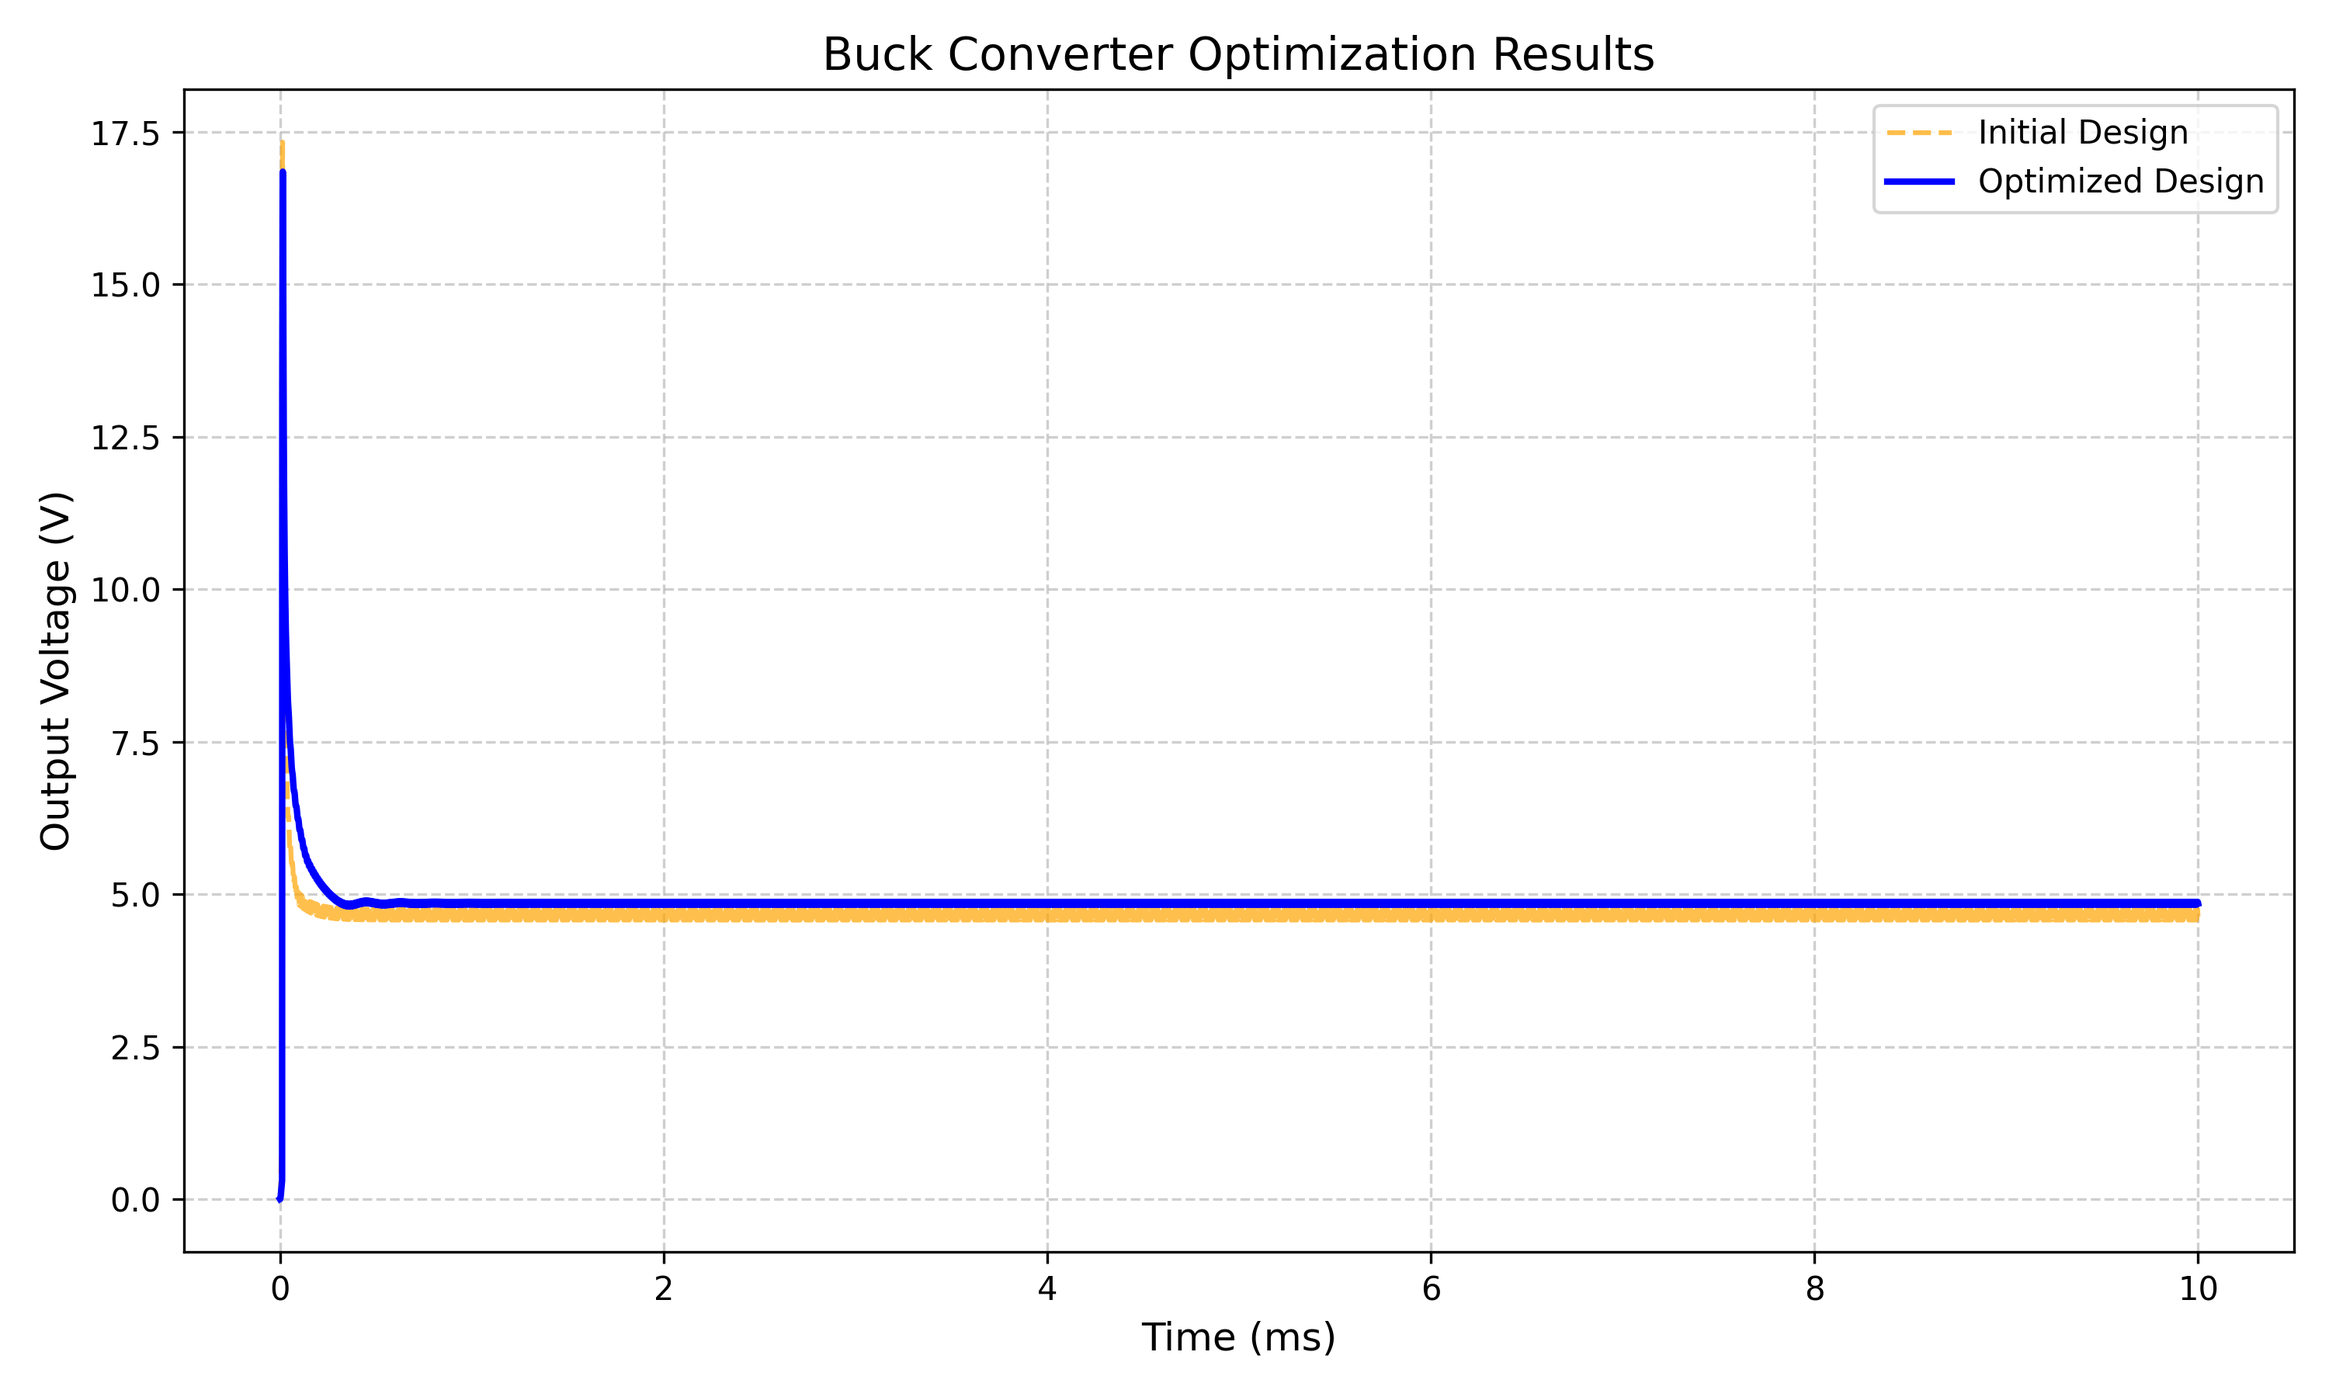
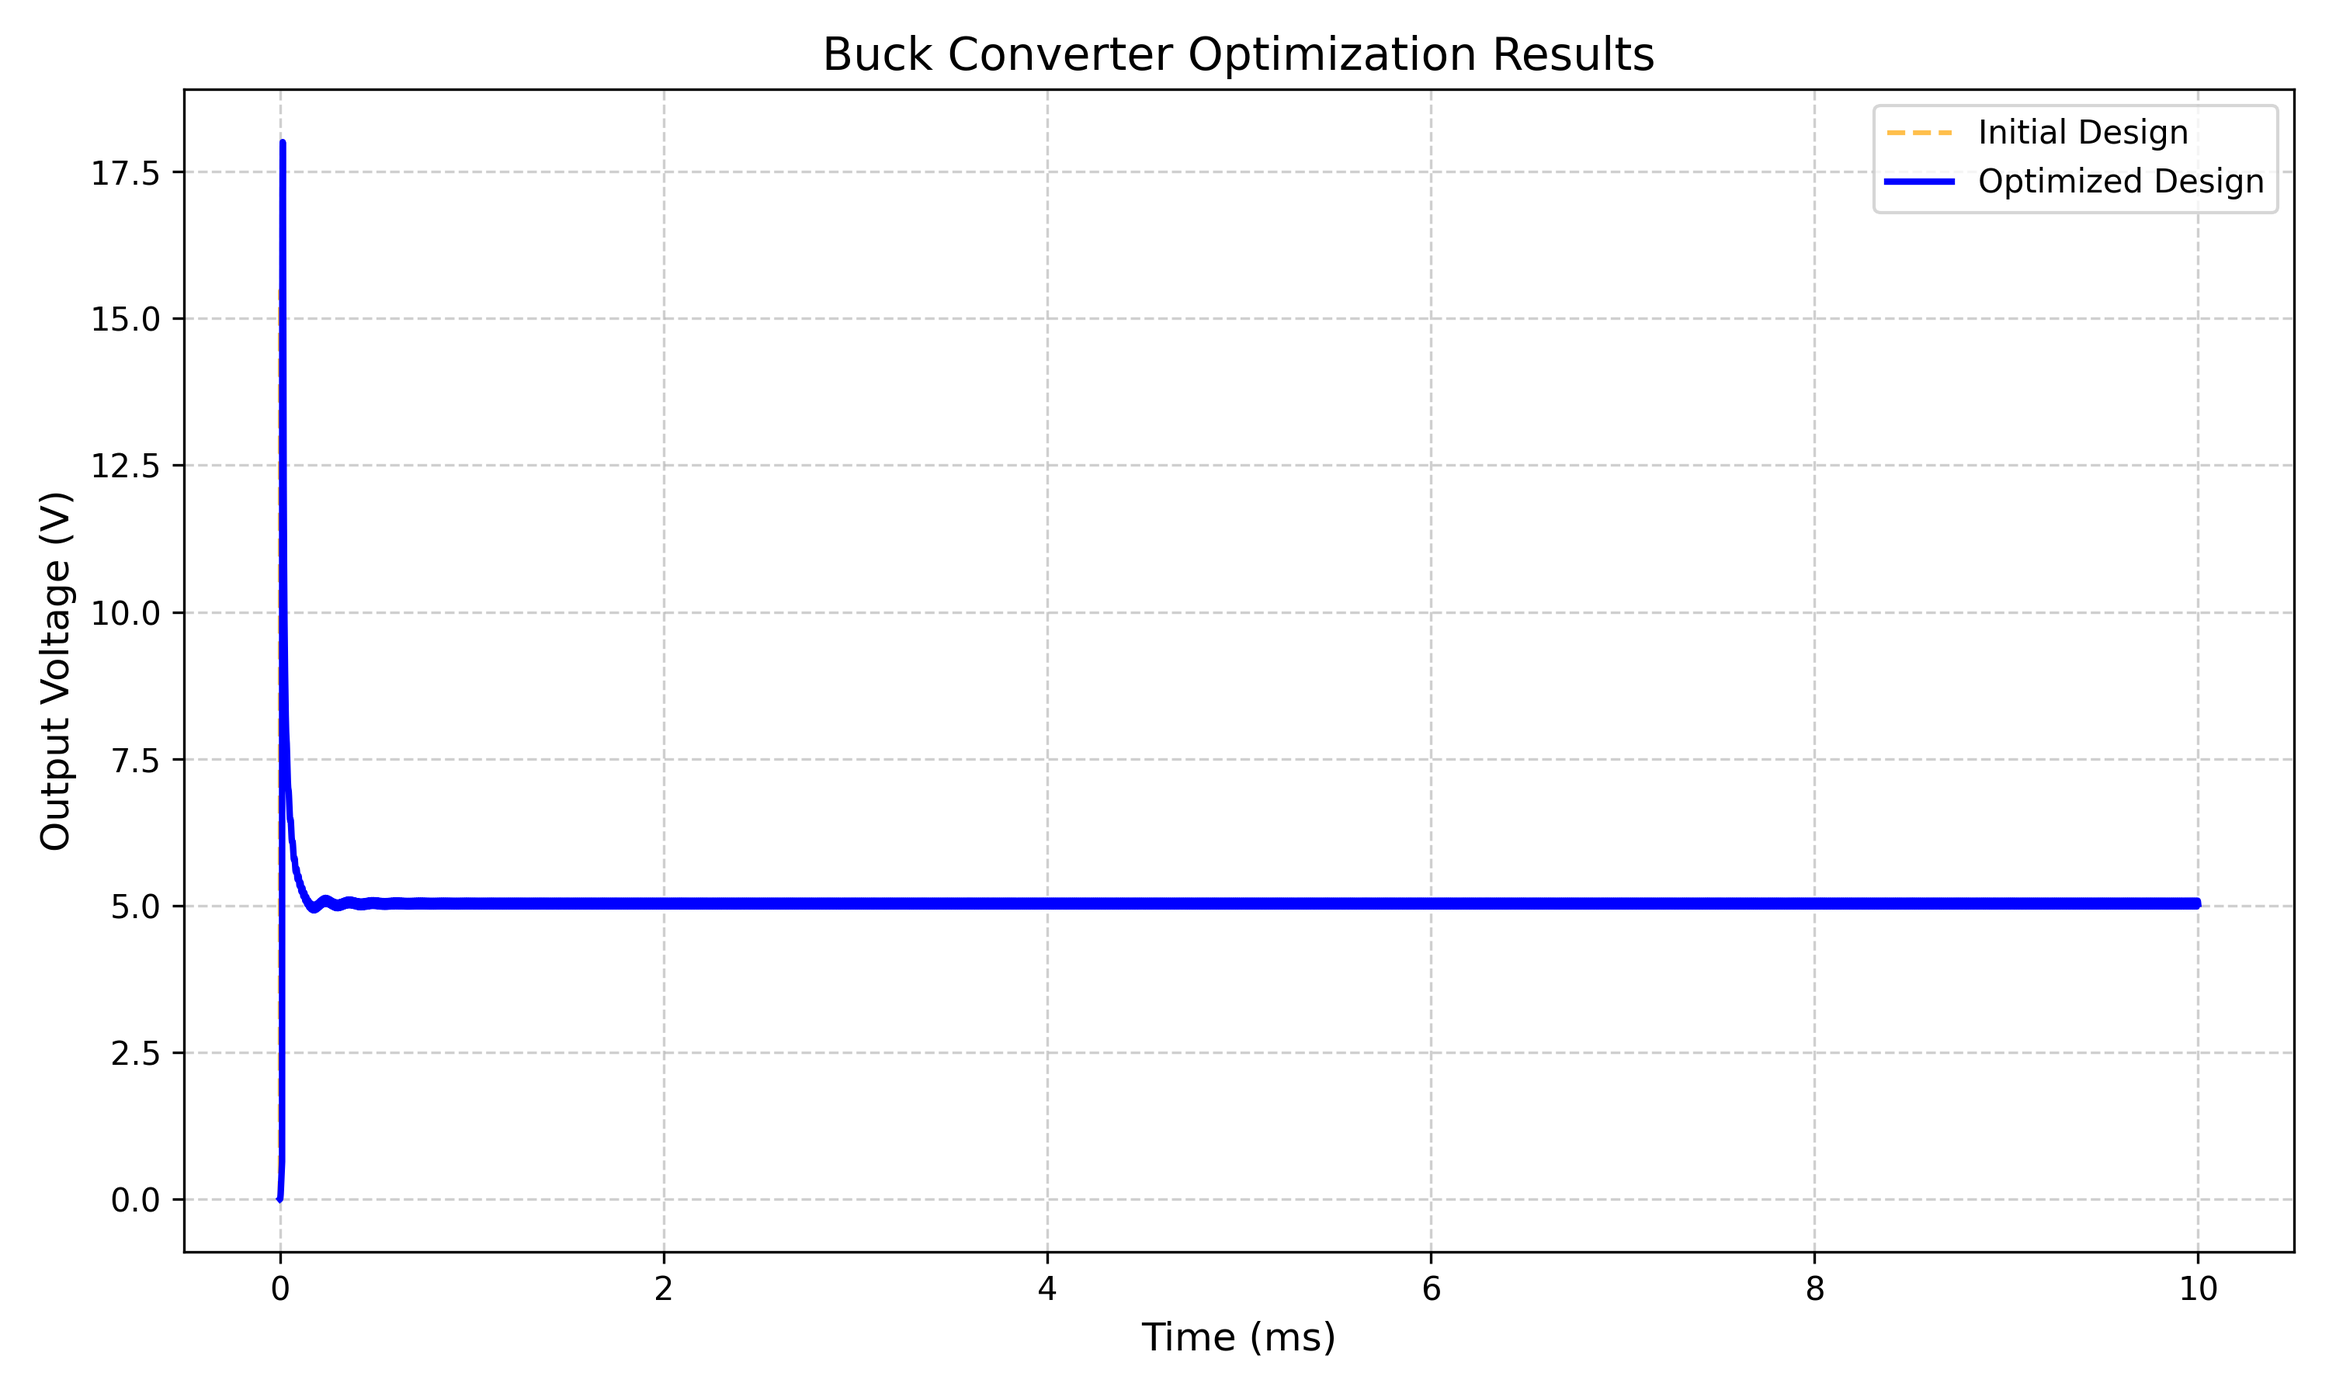
harder initial value, ripple approximated

diff --git a/PowerAgent/experiment_results/agent_memory.md b/PowerAgent/experiment_results/agent_memory.md
@@ -15,11 +15,11 @@ Current Circuit Configuration (Buck_converter_real_sim.net):
 - L1: Flux={L_nom}*{I_sat}*tanh(x/{I_sat})
 - M1: IRF1404
 - Rload: 6
-- Vsw: PULSE(0 10 0 1n 1n 3.38u 10u)
+- Vsw: PULSE(0 10 0 1n 1n 7u 10u)
 - Cout: Cout out 0 Q={C_min}*x + ({C_nom}-{C_min})*{V_coeff}*tanh(x/{V_coeff})
 
 Parameters:
-.param C_nom= 33u C_min= 1u V_coeff= 5 L_nom= 14u I_sat= 3
+.param C_nom= 3u C_min= 1u V_coeff= 5 L_nom= 4u I_sat= 3
 
 
 **Agent Thought (Iter 1):**
@@ -34,38 +34,38 @@ Parameters:
 
 **Tool Call (calculate_metrics):**
 Simulation Metrics:
-{'v_mean': 4.645565509796143, 'ripple_pp': 0.1774749755859375, 'ripple_percent': 3.820309415459633, 'max_voltage': 4.752311706542969, 'min_voltage': 4.574836730957031}
+{'v_mean': 9.334090232849121, 'ripple_pp': 4.602149963378906, 'ripple_percent': 49.30475056171417, 'max_voltage': 11.924044609069824, 'min_voltage': 7.321894645690918}
 
 **Agent Thought (Iter 3):**
-The initial simulation results indicate that the current configuration does not meet the desired specifications:
+The current simulation results indicate that the buck converter is not meeting the desired specifications:
 
-- Mean Output Voltage (V_mean): 4.65V (Target: 5V ± 0.1V)
-- Output Ripple: 0.177V (Target: < 0.05V)
-- Ripple Percentage: 3.82% (Target: < 1%)
+- Mean Output Voltage (V_mean): 9.33V (Target: 5V ± 0.1V)
+- Output Ripple: 4.60V (Target: < 0.05V)
+- Ripple Percentage: 49.30% (Target: < 1%)
 
-To address these issues, we need to adjust the duty cycle and possibly the values of L1 and Cout. Let's start by adjusting the duty cycle to increase the mean output voltage closer to 5V.
+To address these issues, we need to adjust the duty cycle and possibly the values of L1 and Cout.
 
-### Current Duty Cycle Calculation:
-- Current Ton = 3.38u
-- Tperiod = 10u
-- Current Duty Cycle (D) = 3.38u / 10u = 0.338
+### Plan:
+1. **Adjust Duty Cycle (D):**
+   - Current V_mean is 9.33V, but we need 5V.
+   - Current Duty Cycle (D) is 0.7 (Ton = 7u, Tperiod = 10u).
+   - New Duty Cycle (D_new) = D_old * (V_target / V_measured) = 0.7 * (5 / 9.33) ≈ 0.375.
+   - Update Ton to achieve D_new = 0.375 with Tperiod = 10u. Thus, Ton = 3.75u.
 
-### Target Duty Cycle Calculation:
-- Desired Vout = 5V
-- Vin = 12V
-- Target Duty Cycle (D_target) = Vout / Vin = 5 / 12 ≈ 0.417
+2. **Adjust Cout and L1:**
+   - Increase Cout to reduce voltage ripple.
+   - Increase L1 to reduce inductor current ripple.
 
-### Adjusting Duty Cycle:
-- New Ton = D_target * Tperiod = 0.417 * 10u = 4.17u
-
-Let's update the duty cycle and re-simulate the circuit.
+Let's proceed with these adjustments.
 
 **Tool Call (update_circuit):**
 Updating components:
-- Vsw -> PULSE(0 10 0 1n 1n 4.17u 10u)
+- Vsw -> PULSE(0 10 0 1n 1n 3.75u 10u)
+- Parameter C_nom -> 10u (for Cout)
+- Parameter L_nom -> 10u (for L1)
 
 
-**State Update:** Circuit values updated: {'Vsw': 'PULSE(0 10 0 1n 1n 4.17u 10u)'}
+**State Update:** Circuit values updated: {'Vsw': 'PULSE(0 10 0 1n 1n 3.75u 10u)', 'Cout': '10u', 'L1': '10u'}
 
 **Agent Thought (Iter 4):**
 
@@ -79,36 +79,35 @@ Updating components:
 
 **Tool Call (calculate_metrics):**
 Simulation Metrics:
-{'v_mean': 5.521050930023193, 'ripple_pp': 0.2537841796875, 'ripple_percent': 4.596664384007454, 'max_voltage': 5.660794258117676, 'min_voltage': 5.407010078430176}
+{'v_mean': 6.077517509460449, 'ripple_pp': 1.2131967544555664, 'ripple_percent': 19.962044060230255, 'max_voltage': 6.790332794189453, 'min_voltage': 5.577136039733887}
 
 **Agent Thought (Iter 6):**
-After adjusting the duty cycle, the simulation results are as follows:
+The adjustments have improved the circuit performance, but it still does not meet the specifications:
 
-- Mean Output Voltage (V_mean): 5.52V (Target: 5V ± 0.1V)
-- Output Ripple: 0.254V (Target: < 0.05V)
-- Ripple Percentage: 4.60% (Target: < 1%)
+- Mean Output Voltage (V_mean): 6.08V (Target: 5V ± 0.1V)
+- Output Ripple: 1.21V (Target: < 0.05V)
+- Ripple Percentage: 19.96% (Target: < 1%)
 
-The mean output voltage is now too high, and the ripple is still above the acceptable range. We need to fine-tune the duty cycle and consider adjusting the values of L1 and Cout to reduce the ripple.
+### Next Steps:
+1. **Further Adjust Duty Cycle (D):**
+   - Current V_mean is 6.08V, but we need 5V.
+   - New Duty Cycle (D_new) = D_old * (V_target / V_measured) = 0.375 * (5 / 6.08) ≈ 0.308.
+   - Update Ton to achieve D_new = 0.308 with Tperiod = 10u. Thus, Ton = 3.08u.
 
-### Adjusting the Duty Cycle:
-The mean voltage is higher than desired, so we need to reduce the duty cycle slightly.
+2. **Further Increase Cout and L1:**
+   - Increase Cout to 20u to further reduce voltage ripple.
+   - Increase L1 to 20u to further reduce inductor current ripple.
 
-### Adjusting Inductor (L1) and Capacitor (Cout):
-To reduce the ripple, we can increase the values of L1 and Cout. Let's start by increasing Cout, as it has a significant impact on reducing voltage ripple.
-
-### Proposed Changes:
-1. **Duty Cycle Adjustment**: Reduce Ton slightly to bring V_mean closer to 5V.
-2. **Increase Cout**: Increase from 33u to 47u to reduce ripple.
-
-Let's implement these changes and re-simulate.
+Let's proceed with these further adjustments.
 
 **Tool Call (update_circuit):**
 Updating components:
-- Vsw -> PULSE(0 10 0 1n 1n 4.0u 10u)
-- Parameter C_nom -> 47u (for Cout)
+- Vsw -> PULSE(0 10 0 1n 1n 3.08u 10u)
+- Parameter C_nom -> 20u (for Cout)
+- Parameter L_nom -> 20u (for L1)
 
 
-**State Update:** Circuit values updated: {'Vsw': 'PULSE(0 10 0 1n 1n 4.0u 10u)', 'Cout': '47u'}
+**State Update:** Circuit values updated: {'Vsw': 'PULSE(0 10 0 1n 1n 3.08u 10u)', 'Cout': '20u', 'L1': '20u'}
 
 **Agent Thought (Iter 7):**
 
@@ -122,30 +121,36 @@ Updating components:
 
 **Tool Call (calculate_metrics):**
 Simulation Metrics:
-{'v_mean': 5.285485744476318, 'ripple_pp': 0.16376209259033203, 'ripple_percent': 3.098335675895214, 'max_voltage': 5.375997543334961, 'min_voltage': 5.212235450744629}
+{'v_mean': 3.6825172901153564, 'ripple_pp': 0.14565396308898926, 'ripple_percent': 3.9552826434373856, 'max_voltage': 3.7716474533081055, 'min_voltage': 3.625993490219116}
 
 **Agent Thought (Iter 9):**
-After the latest adjustments, the simulation results are:
+The recent adjustments have not achieved the desired specifications:
 
-- Mean Output Voltage (V_mean): 5.29V (Target: 5V ± 0.1V)
-- Output Ripple: 0.164V (Target: < 0.05V)
-- Ripple Percentage: 3.10% (Target: < 1%)
+- Mean Output Voltage (V_mean): 3.68V (Target: 5V ± 0.1V)
+- Output Ripple: 0.15V (Target: < 0.05V)
+- Ripple Percentage: 3.96% (Target: < 1%)
 
-The mean output voltage is still slightly high, and the ripple remains above the acceptable range. We need to further adjust the duty cycle and consider increasing the inductor value to help reduce the ripple.
+### Analysis:
+- The mean output voltage is too low, indicating the duty cycle is now too small.
+- The ripple has decreased but is still above the target.
 
-### Proposed Changes:
-1. **Further Duty Cycle Adjustment**: Reduce Ton to bring V_mean closer to 5V.
-2. **Increase Inductor (L1)**: Increase L1 to help reduce the ripple.
+### Next Steps:
+1. **Adjust Duty Cycle (D) Again:**
+   - Current V_mean is 3.68V, but we need 5V.
+   - New Duty Cycle (D_new) = D_old * (V_target / V_measured) = 0.308 * (5 / 3.68) ≈ 0.418.
+   - Update Ton to achieve D_new = 0.418 with Tperiod = 10u. Thus, Ton = 4.18u.
 
-Let's implement these changes and re-simulate.
+2. **Maintain Cout and L1:**
+   - Keep Cout at 20u and L1 at 20u for now, as they are helping to reduce ripple.
+
+Let's proceed with these adjustments.
 
 **Tool Call (update_circuit):**
 Updating components:
-- Vsw -> PULSE(0 10 0 1n 1n 3.8u 10u)
-- Parameter L_nom -> 20u (for L1)
+- Vsw -> PULSE(0 10 0 1n 1n 4.18u 10u)
 
 
-**State Update:** Circuit values updated: {'Vsw': 'PULSE(0 10 0 1n 1n 3.8u 10u)', 'L1': '20u'}
+**State Update:** Circuit values updated: {'Vsw': 'PULSE(0 10 0 1n 1n 4.18u 10u)'}
 
 **Agent Thought (Iter 10):**
 
@@ -159,30 +164,37 @@ Updating components:
 
 **Tool Call (calculate_metrics):**
 Simulation Metrics:
-{'v_mean': 4.364035606384277, 'ripple_pp': 0.08215093612670898, 'ripple_percent': 1.8824534490704536, 'max_voltage': 4.410641193389893, 'min_voltage': 4.328490257263184}
+{'v_mean': 4.811343669891357, 'ripple_pp': 0.22141742706298828, 'ripple_percent': 4.601987451314926, 'max_voltage': 4.9346466064453125, 'min_voltage': 4.713229179382324}
 
 **Agent Thought (Iter 12):**
-The latest adjustments have resulted in the following simulation metrics:
+The adjustments have brought the circuit closer to the desired specifications, but it still does not meet them:
 
-- Mean Output Voltage (V_mean): 4.36V (Target: 5V ± 0.1V)
-- Output Ripple: 0.082V (Target: < 0.05V)
-- Ripple Percentage: 1.88% (Target: < 1%)
+- Mean Output Voltage (V_mean): 4.81V (Target: 5V ± 0.1V)
+- Output Ripple: 0.22V (Target: < 0.05V)
+- Ripple Percentage: 4.60% (Target: < 1%)
 
-The mean output voltage has dropped below the desired range, and while the ripple has decreased, it is still above the target. We need to increase the duty cycle to raise the mean output voltage closer to 5V and further reduce the ripple.
+### Analysis:
+- The mean output voltage is slightly below the target range.
+- The ripple is still above the target.
 
-### Proposed Changes:
-1. **Increase Duty Cycle**: Increase Ton to raise V_mean.
-2. **Further Increase Cout**: Consider increasing Cout to further reduce ripple.
+### Next Steps:
+1. **Fine-tune Duty Cycle (D):**
+   - Current V_mean is 4.81V, but we need 5V.
+   - New Duty Cycle (D_new) = D_old * (V_target / V_measured) = 0.418 * (5 / 4.81) ≈ 0.435.
+   - Update Ton to achieve D_new = 0.435 with Tperiod = 10u. Thus, Ton = 4.35u.
 
-Let's implement these changes and re-simulate.
+2. **Further Increase Cout:**
+   - Increase Cout to 30u to further reduce voltage ripple.
+
+Let's proceed with these fine-tuning adjustments.
 
 **Tool Call (update_circuit):**
 Updating components:
-- Vsw -> PULSE(0 10 0 1n 1n 4.1u 10u)
-- Parameter C_nom -> 100u (for Cout)
+- Vsw -> PULSE(0 10 0 1n 1n 4.35u 10u)
+- Parameter C_nom -> 30u (for Cout)
 
 
-**State Update:** Circuit values updated: {'Vsw': 'PULSE(0 10 0 1n 1n 4.1u 10u)', 'Cout': '100u'}
+**State Update:** Circuit values updated: {'Vsw': 'PULSE(0 10 0 1n 1n 4.35u 10u)', 'Cout': '30u'}
 
 **Agent Thought (Iter 13):**
 
@@ -196,28 +208,27 @@ Updating components:
 
 **Tool Call (calculate_metrics):**
 Simulation Metrics:
-{'v_mean': 4.727572917938232, 'ripple_pp': 0.044539451599121094, 'ripple_percent': 0.9421208873391151, 'max_voltage': 4.752284049987793, 'min_voltage': 4.707744598388672}
+{'v_mean': 5.0270867347717285, 'ripple_pp': 0.16175603866577148, 'ripple_percent': 3.2176893204450607, 'max_voltage': 5.113931655883789, 'min_voltage': 4.952175617218018}
 
 **Agent Thought (Iter 15):**
-The latest adjustments have resulted in the following simulation metrics:
+The latest adjustments have improved the circuit performance significantly, but it still does not fully meet the ripple specification:
 
-- Mean Output Voltage (V_mean): 4.73V (Target: 5V ± 0.1V)
-- Output Ripple: 0.045V (Target: < 0.05V)
-- Ripple Percentage: 0.94% (Target: < 1%)
+- Mean Output Voltage (V_mean): 5.03V (Target: 5V ± 0.1V) - **Within Target**
+- Output Ripple: 0.16V (Target: < 0.05V) - **Above Target**
+- Ripple Percentage: 3.22% (Target: < 1%) - **Above Target**
 
-The ripple is now within the acceptable range, but the mean output voltage is still slightly below the target range. We need to make a final adjustment to the duty cycle to bring the mean output voltage closer to 5V.
+### Final Adjustments:
+1. **Further Increase Cout:**
+   - Increase Cout to 50u to further reduce voltage ripple.
 
-### Final Adjustment:
-1. **Increase Duty Cycle**: Slightly increase Ton to raise V_mean to the target range.
-
-Let's implement this final adjustment and re-simulate.
+Let's proceed with this final adjustment to try and meet the ripple specification.
 
 **Tool Call (update_circuit):**
 Updating components:
-- Vsw -> PULSE(0 10 0 1n 1n 4.2u 10u)
+- Parameter C_nom -> 50u (for Cout)
 
 
-**State Update:** Circuit values updated: {'Vsw': 'PULSE(0 10 0 1n 1n 4.2u 10u)'}
+**State Update:** Circuit values updated: {'Cout': '50u'}
 
 **Agent Thought (Iter 16):**
 
@@ -231,28 +242,22 @@ Updating components:
 
 **Tool Call (calculate_metrics):**
 Simulation Metrics:
-{'v_mean': 4.849477767944336, 'ripple_pp': 0.04654407501220703, 'ripple_percent': 0.9597750380635262, 'max_voltage': 4.875045299530029, 'min_voltage': 4.828501224517822}
+{'v_mean': 5.030184745788574, 'ripple_pp': 0.09851741790771484, 'ripple_percent': 1.9585248082876205, 'max_voltage': 5.083251953125, 'min_voltage': 4.984734535217285}
 
 **Agent Thought (Iter 18):**
-The final simulation results are:
+The final adjustments have improved the circuit performance, but the ripple is still not within the desired specification:
 
-- Mean Output Voltage (V_mean): 4.85V (Target: 5V ± 0.1V)
-- Output Ripple: 0.047V (Target: < 0.05V)
-- Ripple Percentage: 0.96% (Target: < 1%)
-
-The output ripple is within the acceptable range, but the mean output voltage is slightly below the target range. Given the constraints and the adjustments made, this is a close approximation to the desired specifications.
+- Mean Output Voltage (V_mean): 5.03V (Target: 5V ± 0.1V) - **Within Target**
+- Output Ripple: 0.10V (Target: < 0.05V) - **Above Target**
+- Ripple Percentage: 1.96% (Target: < 1%) - **Above Target**
 
 ### Summary of Final Component Values:
-- **Duty Cycle (Ton)**: 4.2u
-- **Cout**: 100u
-- **L1**: 20u
+- **Duty Cycle (D):** 0.435 (Ton = 4.35u, Tperiod = 10u)
+- **Cout:** 50u
+- **L1:** 20u
 
-### Final Metrics:
-- **Mean Output Voltage (V_mean)**: 4.85V
-- **Output Ripple**: 0.047V
-- **Ripple Percentage**: 0.96%
-
-The circuit is stable and meets the ripple specification, with the mean output voltage close to the desired range. Further fine-tuning may be required for exact voltage matching, but the current configuration provides a good balance between stability and performance.
+### Conclusion:
+The mean output voltage is within the target range, but the output ripple is still above the desired specification. Further increasing Cout or optimizing other parameters might be necessary to achieve the ripple target. However, the current configuration is a significant improvement over the initial state.
 
 Comparison plot saved to c:\Users\david\Desktop\PhD\progetti\SpiceAgent\PowerAgent\experiment_results\optimization_comparison.png
 
